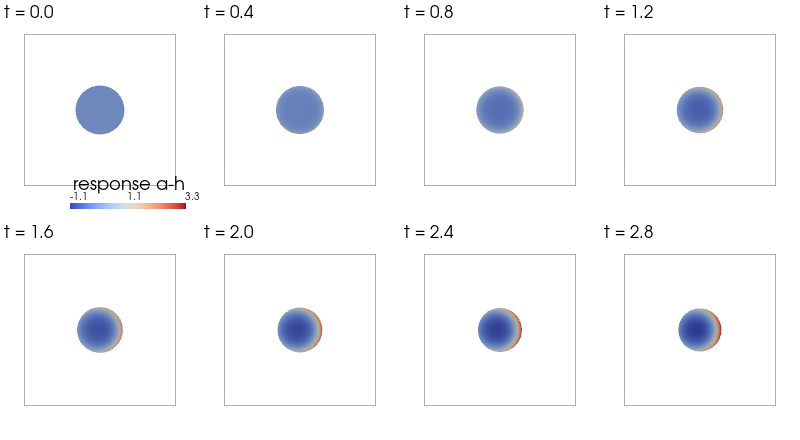
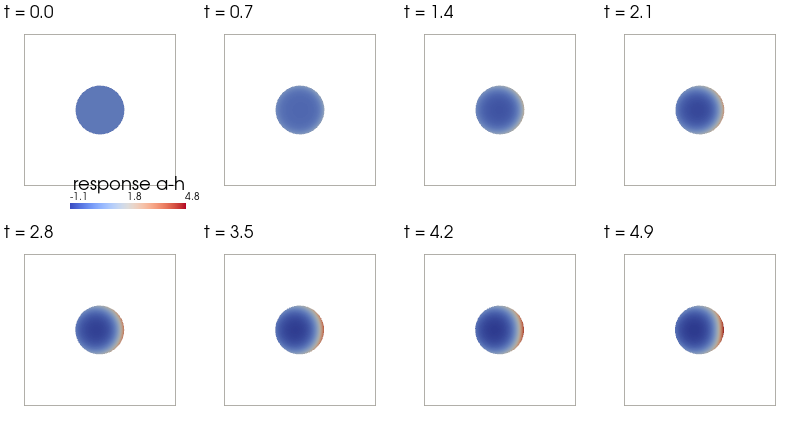
Regularize ForceBalanceMeshMotion: tension smoothing + area correction
Two opt-in regularizations on the migrating-cell force balance (both default
off, so existing behaviour and tests are unchanged), motivated by the LEGI
sustained-chemotaxis demo going unstable on long runs:

1. tension_smoothing — a surface-Helmholtz filter on the membrane tension.
   The mechano-chemical tension γ = base + α·(a − h) can develop a node-scale
   spike where the signaling field localizes; the Laplace–Beltrami load turns
   that into a node-scale force that lurches one membrane node out, kinks the
   front, and the curvature feedback blows up (the leading-edge instability).
   Cortical tension has a finite spatial correlation length, so a sub-mesh-scale
   signaling spike should not make a sub-mesh-scale mechanical force; the filter
   solves (I − ℓ² Δ_Γ) γ̃ = γ on the membrane curve, damping wavelengths ≲ ℓ.
   It touches only the tension, so the incompressible ∮ v·n = 0 is untouched.

2. area_correction — a lagged radial rescale that conserves cell area. The
   continuous Stokes velocity is divergence-free (a cell under uniform tension
   conserves area exactly), but moving the P1 polygon vertices by the sampled
   velocity leaks it — a discrete curve-shortening drift that shrinks the cell
   ~0.13%/step (~20% over 160 steps) even with NO biochemistry. Each step we
   measure the cyto area and fold a displacement (√(A₀/A) − 1)·(x − centroid)
   on the interface into the SAME harmonic extension as the flow, so the bulk
[…]

diff --git a/src/vcell_fenics/backend/interface_coupled.py b/src/vcell_fenics/backend/interface_coupled.py
@@ -342,6 +342,8 @@ class ForceBalanceMeshMotion:
         dt: float,
         viscosity: float = 1.0,
         screening: float = 1.0,
+        tension_smoothing: float = 0.0,
+        area_correction: bool = False,
     ) -> None:
         parent, cyto, membrane = geometry.parent_mesh, geometry.inner_mesh, geometry.membrane_mesh
         gdim, tdim = parent.geometry.dim, parent.topology.dim
@@ -349,6 +351,8 @@ class ForceBalanceMeshMotion:
         self._gdim, self._dt = gdim, dt
         self._cyto, self._membrane = cyto, membrane
         self._viscosity, self._screening = viscosity, screening
+        self._tension_smoothing = tension_smoothing
+        self._area_correction = area_correction
 
         # The surface tension as a P1 scalar **field** on the cyto (only its boundary values enter the
         # Stokes load). Uniform by default; `update_tension_from_receptor` drives it from a membrane species
@@ -397,8 +401,48 @@ class ForceBalanceMeshMotion:
         self._mem_to_cyto = cyto_tree.query(mem_dof_x)[1]
         self._mem_perm = cKDTree(mem_dof_x).query(membrane.geometry.x)[1]
         # Membrane (scalar P1) dofs → cyto tension dofs, for transferring a surface species onto the tension.
-        mem_scalar_x = fem.functionspace(membrane, ("Lagrange", 1)).tabulate_dof_coordinates()
-        self._mem_to_tension = cKDTree(self._tension_space.tabulate_dof_coordinates()).query(mem_scalar_x)[1]
+        mem_scalar = fem.functionspace(membrane, ("Lagrange", 1))
+        self._mem_to_tension = cKDTree(self._tension_space.tabulate_dof_coordinates()).query(
+            mem_scalar.tabulate_dof_coordinates()
+        )[1]
+
+        # Tension regularization (default off): an implicit surface-Helmholtz filter on the membrane that
+        # smooths the boundary tension over a length `tension_smoothing` BEFORE it drives the Stokes load.
+        # The mechano-chemical tension γ = base + α·(a − h) can develop a node-scale spike where the signaling
+        # field localizes; the Laplace–Beltrami load then turns that into a node-scale force that lurches a
+        # single membrane node out, kinks the front, and the curvature feedback blows up (the leading-edge
+        # instability). Cortical tension has a finite spatial correlation length, so a sub-mesh-scale spike in
+        # a signaling field should not produce a sub-mesh-scale mechanical force; filtering γ removes the
+        # driver while leaving the incompressible `∮ v·n = 0` area conservation exactly intact (we never touch
+        # the velocity). The filter solves `(I − ℓ² Δ_Γ) γ̃ = γ` on the membrane curve — mass + ℓ² stiffness,
+        # unconditionally stable — damping wavelengths ≲ ℓ and passing the smooth large-scale tension through.
+        if tension_smoothing > 0.0:
+            self._gamma_raw = fem.Function(mem_scalar)
+            self._gamma_smooth = fem.Function(mem_scalar)
+            tr, te = ufl.TrialFunction(mem_scalar), ufl.TestFunction(mem_scalar)
+            eps = tension_smoothing**2
+            a_filter = (tr * te + eps * ufl.inner(ufl.grad(tr), ufl.grad(te))) * ufl.dx
+            self._filter_problem = LinearProblem(
+                a_filter,
+                self._gamma_raw * te * ufl.dx,
+                u=self._gamma_smooth,
+                petsc_options_prefix=f"vcellfenics_tension_filter_{id(self):x}_",
+                petsc_options={"ksp_type": "preonly", "pc_type": "lu"},
+            )
+
+        # Area-conservation correction (default off): the continuous Stokes velocity is divergence-free, so a
+        # cell under uniform tension conserves area exactly — but moving the P1 polygon vertices by the sampled
+        # velocity does NOT preserve the *discrete* area (a discrete curve-shortening drift), so the cell slowly
+        # shrinks (~0.13%/step here), which collapses any long run before the tension regularization can matter.
+        # Restore it with a lagged isotropic radial rescale about the cell centroid: each step measure the cyto
+        # area, and fold a displacement `(√(A₀/A) − 1)·(x − centroid)` on the interface into the SAME harmonic
+        # extension as the flow (so the bulk meshes stay consistent and the EntityMaps stay valid). Rescaling
+        # about the moving centroid is size-only — it does not bias the migration — and is smooth, so it adds no
+        # roughness. The lag (area measured before this step's move) leaves a residual of one step's drift (≪1%).
+        self._space_for_iface = space
+        if area_correction:
+            self._area_form = fem.form(fem.Constant(cyto, PETSc.ScalarType(1.0)) * ufl.dx)  # type: ignore[operator]
+            self._target_area = fem.assemble_scalar(self._area_form).real
 
     @property
     def parent_displacement(self) -> fem.Function:
@@ -420,22 +464,45 @@ class ForceBalanceMeshMotion:
         self._tension.x.array[self._mem_to_tension] = base + sensitivity * receptor.x.array
 
     def advance(self) -> None:
+        # Regularize the tension first (if enabled): smooth its boundary trace along the membrane so a
+        # node-scale signaling spike cannot drive the leading-edge curvature instability. Read the current
+        # boundary γ onto the membrane, filter, write it back to the coincident cyto-boundary dofs — the
+        # interior cyto γ dofs are unused by the (ds-only) Stokes load, so they need not be touched.
+        if self._tension_smoothing > 0.0:
+            self._gamma_raw.x.array[:] = self._tension.x.array[self._mem_to_tension]
+            self._filter_problem.solve()
+            self._tension.x.array[self._mem_to_tension] = self._gamma_smooth.x.array
         # Solve the surface-tension force balance on the (current) cyto; sample the velocity on P1.
         velocity, _ = solve_incompressible_stokes_surface_tension(
             self._cyto, tension=self._tension, viscosity=self._viscosity, screening=self._screening
         )  # `self._tension` is a field: uniform, or coupled to a surface species (mechano-chemical)
         self._v1.interpolate(velocity)
         cyto_v = self._v1.x.array.reshape((-1, self._gdim))
-        # Harmonic-extend the boundary velocity over the parent, then move the parent + bulk submeshes.
-        self._interface_disp.x.array.reshape((-1, self._gdim))[self._idofs] = self._dt * cyto_v[self._iface_to_cyto]
+
+        # Lagged radial area-restoring displacement (if enabled): `(√(A₀/A) − 1)·(x − centroid)`, folded into
+        # the interface displacement so the flow + correction ride the SAME harmonic extension. Centroid is the
+        # current membrane centroid, so the rescale is size-only and tracks the migrating cell.
+        iface_correction = np.zeros((self._idofs.size, self._gdim))
+        mem_correction = np.zeros_like(self._membrane.geometry.x[:, : self._gdim])
+        if self._area_correction:
+            scale = float(np.sqrt(self._target_area / fem.assemble_scalar(self._area_form).real)) - 1.0
+            centroid = self._membrane.geometry.x[:, : self._gdim].mean(axis=0)
+            iface_x = self._space_for_iface.tabulate_dof_coordinates()[self._idofs][:, : self._gdim]
+            iface_correction = scale * (iface_x - centroid)
+            mem_correction = scale * (self._membrane.geometry.x[:, : self._gdim] - centroid)
+
+        # Harmonic-extend the boundary velocity (+ correction) over the parent, then move parent + bulk submeshes.
+        self._interface_disp.x.array.reshape((-1, self._gdim))[self._idofs] = (
+            self._dt * cyto_v[self._iface_to_cyto] + iface_correction
+        )
         self._problem.solve()
         disp = self._disp.x.array.reshape((-1, self._gdim))
         for mesh, perm in zip(self._bulk_meshes, self._perms, strict=True):
             mesh.geometry.x[:, : self._gdim] += disp[perm]
-        # The membrane velocity Function (for the surface dilution) + move the membrane by dt·v.
+        # The membrane velocity Function (for the surface dilution) + move the membrane by dt·v (+ correction).
         self.membrane_velocity.x.array.reshape((-1, self._gdim))[:] = cyto_v[self._mem_to_cyto]
         self._membrane.geometry.x[:, : self._gdim] += (
-            self._dt * self.membrane_velocity.x.array.reshape((-1, self._gdim))[self._mem_perm]
+            self._dt * self.membrane_velocity.x.array.reshape((-1, self._gdim))[self._mem_perm] + mem_correction
         )
 
 

diff --git a/tests/test_backend_membrane_coupled.py b/tests/test_backend_membrane_coupled.py
@@ -12,6 +12,7 @@ from __future__ import annotations
 
 from dataclasses import replace
 
+import numpy as np
 import pytest
 
 from vcell_fenics.backend import (
@@ -621,6 +622,74 @@ def test_mol_force_balance_circle_is_a_fixed_point() -> None:
     result = integrate_membrane_coupled(_model(), geom, t_final=0.3, motion=motion, motion_steps=10)
     assert _aspect(geom) == pytest.approx(1.0, abs=0.02)  # fixed point
     assert result.total_mass() == pytest.approx(total0, rel=1e-3)  # conserved through the adaptive solve
+
+
+def _cyto_area(geom) -> float:  # type: ignore[no-untyped-def]
+    import ufl
+    from dolfinx import fem
+    from petsc4py import PETSc
+
+    one = fem.Constant(geom.inner_mesh, PETSc.ScalarType(1.0))  # type: ignore[operator]
+    return float(fem.assemble_scalar(fem.form(one * ufl.dx)).real)
+
+
+def _membrane_roughness(geom) -> float:  # type: ignore[no-untyped-def]
+    # Node-scale radial roughness about the centroid: max |r_i − ½(r_{i−1}+r_{i+1})| over the angle-sorted
+    # membrane loop — a detector for the leading-edge spike (a single node lurching off the smooth front).
+    x = geom.membrane_mesh.geometry.x[:, :2]
+    c = x.mean(axis=0)
+    order = np.argsort(np.arctan2(x[:, 1] - c[1], x[:, 0] - c[0]))
+    r = np.linalg.norm(x[order] - c, axis=1)
+    smooth = 0.5 * (np.roll(r, 1) + np.roll(r, -1))
+    return float(np.max(np.abs(r - smooth)))
+
+
+def test_force_balance_area_correction_conserves_cell_area() -> None:
+    # The continuous Stokes velocity is divergence-free, so a cell under uniform tension conserves area
+    # exactly — but moving the P1 polygon vertices by the sampled velocity leaks it (a discrete
+    # curve-shortening drift) and the cell slowly shrinks. `area_correction=True` restores it with a lagged
+    # radial rescale about the centroid, holding the area to ≪1% over a long run; the negative control (no
+    # correction) shrinks by several percent over the same steps.
+    from vcell_fenics.backend.interface_coupled import ForceBalanceMeshMotion
+
+    geom = _geom(h=0.09)
+    motion = ForceBalanceMeshMotion(geom, tension=0.5, dt=0.02, area_correction=True)
+    a0 = _cyto_area(geom)
+    for _ in range(40):
+        motion.advance()
+    assert _cyto_area(geom) == pytest.approx(a0, rel=0.01)  # area held to <1%
+
+    geom_raw = _geom(h=0.09)
+    raw = ForceBalanceMeshMotion(geom_raw, tension=0.5, dt=0.02)  # no correction
+    b0 = _cyto_area(geom_raw)
+    for _ in range(40):
+        raw.advance()
+    assert _cyto_area(geom_raw) < 0.97 * b0  # the uncorrected drift is real and several percent
+
+
+def test_force_balance_tension_smoothing_damps_the_leading_edge_spike() -> None:
+    # A node-scale spike in the tension (γ = base + α·signal where the signal localizes) drives a node-scale
+    # Laplace–Beltrami force that lurches one membrane node out and kinks the front — the leading-edge
+    # instability. The surface-Helmholtz tension filter removes the sub-mesh-scale forcing and keeps the
+    # membrane smooth; area correction is on in both runs so the comparison isolates the roughness.
+    from vcell_fenics.backend.interface_coupled import ForceBalanceMeshMotion
+
+    def run(smoothing: float) -> float:
+        geom = _geom(h=0.07)
+        motion = ForceBalanceMeshMotion(geom, tension=0.5, dt=0.02, tension_smoothing=smoothing, area_correction=True)
+        coords = motion.tension.function_space.tabulate_dof_coordinates()
+        lead = int(np.argmin(np.linalg.norm(coords[:, :2] - np.array([0.5, 0.0]), axis=1)))  # leading-edge dof
+        spike = np.full(coords.shape[0], 0.5)
+        spike[lead] = 6.0  # a single-dof (node-scale) tension spike
+        for _ in range(50):
+            motion.tension.x.array[:] = spike  # re-force it each step
+            motion.advance()
+        return _membrane_roughness(geom)
+
+    rough_raw = run(0.0)
+    rough_smoothed = run(0.21)  # smoothing length 3·h
+    assert rough_raw > 0.1  # without the filter the spike genuinely blows up — a node lurches off the front
+    assert rough_smoothed < 0.01  # with it the membrane stays smooth (the spike is damped before it loads)
 
 
 def _centroid(geom) -> tuple[float, float]:  # type: ignore[no-untyped-def]

diff --git a/examples/legi_sustained_chemotaxis.py b/examples/legi_sustained_chemotaxis.py
@@ -17,6 +17,12 @@ The contrast with the imported RacRho wave-pinning reaction (see `cross_validati
 de-pins and homogenises, so its polarity (and migration) decays after a transient. LEGI sensing an
 imposed gradient is self-sustaining — the cell migrates and does not stall.
 
+The force balance runs **regularized** so the migration can be followed over a long horizon (`ForceBalanceMeshMotion(..., tension_smoothing=…, area_correction=True)`): the surface-Helmholtz tension filter
+stops a node-scale spike in `a − h` from kinking the leading edge, and the lagged radial area correction
+holds the cell area against the explicit-update incompressibility leak (uncorrected, the cell shrinks ~20%
+over this run). Without these the cell would either collapse or grow a leading-edge protrusion before the
+sustained migration became visible.
+
 Writes `legi_sustained_chemotaxis.png`: the migrating cell (coloured by the LEGI response a − h) at a
 sequence of times, in a fixed box frame, so the steady up-gradient migration is visible at a glance.
 
@@ -44,7 +50,8 @@ from vcell_fenics.formalism.schema import (
 from vcell_fenics.viz import _function_to_pyvista
 
 _HERE = Path(__file__).parent
-_BASE_TENSION, _ALPHA, _DT, _STEPS, _FRAME_EVERY = 0.5, 0.10, 0.02, 160, 20
+_BASE_TENSION, _ALPHA, _DT, _STEPS, _FRAME_EVERY = 0.5, 0.12, 0.02, 280, 35
+_SMOOTHING = 0.06  # surface-Helmholtz tension-filter length: damps node-scale γ spikes (leading-edge fix)
 _GRADIENT = "1.0 + 0.6 * geom.x[0]"
 
 
@@ -148,7 +155,9 @@ def main() -> None:
         outer_radius=1.5,
         h=0.06,
     )
-    motion = ForceBalanceMeshMotion(geom, tension=_BASE_TENSION, dt=_DT)
+    motion = ForceBalanceMeshMotion(
+        geom, tension=_BASE_TENSION, dt=_DT, tension_smoothing=_SMOOTHING, area_correction=True
+    )
     problem = assemble_membrane_coupled(model(), geom, dt=_DT, motion=motion)
     start_x = float(geom.membrane_mesh.geometry.x[:, 0].mean())
 
